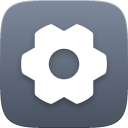
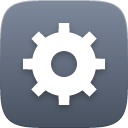
Settings wears a square-toothed gear that stays a gear at 32px, and an unknown app's tile is a dim graphite in the dark theme instead of a pale one.

Changed region(s): [[0.1562, 0.1562, 0.8438, 0.8438], [0.375, 0.375, 0.625, 0.625]]

diff --git a/design/icons/generate.py b/design/icons/generate.py
@@ -6,7 +6,8 @@ vendored in glyphs/) filled, at 62% of the tile. Written:
 
   crates/yantrik-ui-kit/assets/app-icons/<id>.svg            the tile, drawn at 256
   crates/yantrik-ui-kit/assets/app-icons/<size>/<id>.png     rendered by resvg at each size
-  crates/yantrik-ui-kit/assets/app-icons/<size>/_plate.png   the neutral plate (unknown apps)
+  crates/yantrik-ui-kit/assets/app-icons/<size>/_plate-light.png, _plate-dark.png
+                                                             the neutral plate (unknown apps)
   crates/yantrik-ui-kit/assets/app-icons/<size>/_mask.png    the squircle in white (hover)
   crates/yantrik-ui-kit/assets/app-icons/fingerprint.txt     what this run read (fingerprint.py)
   crates/yantrik-ui-kit/slint/app_icons.slint                AppIcons: id and size to image
@@ -38,11 +39,14 @@ from glyph_map import GLYPHS  # noqa: E402
 SIZES = (32, 48, 64, 96, 128, 256)
 OUT = Path("crates/yantrik-ui-kit/assets/app-icons")
 SLINT = Path("crates/yantrik-ui-kit/slint/app_icons.slint")
-# The neutral plate, and the ink of the initial on it: a pale grey with no hue, so an app we know
-# nothing about claims no category, and light where every app of ours is a colour, so it never
-# reads as Settings' slate. A theme's own icon sits on it as a logo sits on a white card.
-PLATE = ("#f4f5f8", "#d3d7de")
-PLATE_INK = "#4a5160"
+# The neutral plates, one per theme: (top, bottom), the 1px rim as (colour, opacity), and the ink
+# of the initial on it. No hue, so an app we know nothing about claims no category. In the light
+# theme it is a pale card a theme's own logo sits on; in the dark theme a pale tile flashed in
+# the dock, so it is a dim graphite there with a lighter rim, quieter than any app of ours.
+PLATES = {
+    "light": (("#f4f5f8", "#d3d7de"), ("#000000", 0.14), "#4a5160"),
+    "dark": (("#4b5561", "#39414b"), ("#5d6874", 1.0), "#ffffff"),
+}
 
 
 def glyph(name: str) -> str:
@@ -66,10 +70,12 @@ def build() -> dict[Path, bytes]:
             group = template.glyph_group(size, body, app.ink, dx, dy)
             files[OUT / str(size) / f"{app.id}.png"] = snap.render(template.tile(size, top, bottom, group, app.ink))
     for size in SIZES:
-        files[OUT / str(size) / "_plate.png"] = snap.render(template.tile(size, *PLATE, edge=True))
+        for theme, (colours, rim, _) in PLATES.items():
+            files[OUT / str(size) / f"_plate-{theme}.png"] = snap.render(template.tile(size, *colours, edge=rim))
         files[OUT / str(size) / "_mask.png"] = snap.render(template.mask(size))
     files[OUT / "fingerprint.txt"] = fingerprint.text(HERE, apps).encode()
-    files[SLINT] = slint_map.source([a.id for a in apps], SIZES, PLATE_INK).encode()
+    inks = {theme: ink for theme, (_, _, ink) in PLATES.items()}
+    files[SLINT] = slint_map.source([a.id for a in apps], SIZES, inks).encode()
     return files
 
 

diff --git a/design/icons/slint_map.py b/design/icons/slint_map.py
@@ -26,20 +26,25 @@ def _url(path: str) -> str:
     return f'@image-url("../assets/app-icons/{path}")'
 
 
-def source(ids: list[str], sizes: tuple[int, ...], plate_ink: str) -> str:
+def source(ids: list[str], sizes: tuple[int, ...], plate_inks: dict[str, str]) -> str:
     has = "\n            || ".join(f'id == "{i}"' for i in ids)
     out = [HEADER, "export global AppIcons {"]
-    out.append("    /// The colour of an unknown app's initial on the neutral plate.")
-    out.append(f"    out property <color> plate-ink: {plate_ink};\n")
+    out.append("    /// The colour of an unknown app's initial on the neutral plate, in either theme.")
+    out.append("    public pure function plate-ink(dark: bool) -> color {")
+    out.append(f"        return dark ? {plate_inks['dark']} : {plate_inks['light']};\n    }}\n")
     out.append("    /// Whether there is art for this app id: every app AppColor gives a colour.")
     out.append(f"    public pure function has(id: string) -> bool {{\n        return {has};\n    }}\n")
     out.append("    /// An app's tile at `px` physical pixels.")
     out.append("    public pure function art(id: string, px: int) -> image {")
     out.append(f"        return {_chain(sizes, 'root.art-{s}(id)')};\n    }}\n")
     out.append("    /// The neutral plate: the same squircle and light with no colour and no glyph, for an")
-    out.append("    /// app we have no art for (its initial goes on it) and behind a theme's own icon.")
-    out.append("    public pure function plate(px: int) -> image {")
-    out.append(f"        return {_chain(sizes, _url('{s}/_plate.png'))};\n    }}\n")
+    out.append("    /// app we have no art for (its initial goes on it) and behind a theme's own icon. Pale")
+    out.append("    /// in the light theme, a dim graphite in the dark one.")
+    out.append("    public pure function plate(px: int, dark: bool) -> image {")
+    out.append("        return dark ? root.plate-dark(px) : root.plate-light(px);\n    }\n")
+    for theme in ("light", "dark"):
+        out.append(f"    pure function plate-{theme}(px: int) -> image {{")
+        out.append(f"        return {_chain(sizes, _url('{s}/_plate-' + theme + '.png'))};\n    }}\n")
     out.append("    /// The squircle in white, laid over a tile at low opacity for hover.")
     out.append("    public pure function mask(px: int) -> image {")
     out.append(f"        return {_chain(sizes, _url('{s}/_mask.png'))};\n    }}")

diff --git a/crates/yantrik-ui-kit/src/app_icons.rs b/crates/yantrik-ui-kit/src/app_icons.rs
@@ -60,7 +60,7 @@ fn every_app_has_art_at_every_size() {
     let apps = table();
     assert!(apps.len() >= 30, "read the colour table, found {} apps", apps.len());
     let mut names: Vec<String> = apps.iter().map(|a| a.0.clone()).collect();
-    names.extend(["_plate".into(), "_mask".into()]);
+    names.extend(["_plate-light".into(), "_plate-dark".into(), "_mask".into()]);
     for name in &names {
         for size in SIZES {
             let path = icons().join(format!("{size}/{name}.png"));
@@ -73,8 +73,9 @@ fn every_app_has_art_at_every_size() {
     }
 }
 
-/// AppIcons offers exactly the generated art: every app at every size, each size's plate and
-/// mask, and the empty image an unknown id falls through to. Nothing it names is missing.
+/// AppIcons offers exactly the generated art: every app at every size, each size's two plates
+/// (light and dark) and mask, and the empty image an unknown id falls through to. Nothing it
+/// names is missing.
 #[test]
 fn the_slint_mapping_offers_exactly_the_art() {
     let src = read(&Path::new(env!("CARGO_MANIFEST_DIR")).join("slint/app_icons.slint"));
@@ -86,7 +87,7 @@ fn the_slint_mapping_offers_exactly_the_art() {
         }
     }
     let urls: Vec<&str> = src.split("@image-url(\"").skip(1).map(|s| &s[..s.find('"').unwrap()]).collect();
-    assert_eq!(urls.len(), SIZES.len() * (apps.len() + 3), "one image per app and size, a plate, a mask and an empty fallback per size");
+    assert_eq!(urls.len(), SIZES.len() * (apps.len() + 4), "one image per app and size, two plates, a mask and an empty fallback per size");
     for url in urls.iter().filter(|u| !u.is_empty()) {
         let path = Path::new(env!("CARGO_MANIFEST_DIR")).join("slint").join(url);
         assert!(path.is_file(), "the mapping names {url}, which is not there");

diff --git a/design/icons/template.py b/design/icons/template.py
@@ -65,10 +65,11 @@ def _shadow(size: int, ink: str) -> str:
             f'stdDeviation="{_num(blur)}" flood-color="#000" flood-opacity="{opacity}"/></filter>')
 
 
-def tile(size: int, top: str, bottom: str, glyph: str = "", ink: str = "#ffffff", edge: bool = False) -> str:
-    """A whole tile at `size` px. `glyph` is a glyph_group(), or "" for a bare plate. `edge`
-    draws a faint 1px rim all round, for a light tile that would otherwise melt into a light
-    surface."""
+def tile(size: int, top: str, bottom: str, glyph: str = "", ink: str = "#ffffff",
+         edge: tuple[str, float] | None = None) -> str:
+    """A whole tile at `size` px. `glyph` is a glyph_group(), or "" for a bare plate. `edge`,
+    a (colour, opacity), draws a 1px rim all round: the neutral plates' outline, which is what
+    keeps them from melting into the surface they sit on."""
     shape = squircle(size)
     rim = 2  # stroked on the outline and clipped to it, so 1px shows inside
     parts = [
@@ -91,7 +92,7 @@ def tile(size: int, top: str, bottom: str, glyph: str = "", ink: str = "#ffffff"
         f'<rect width="{size}" height="{size}" fill="url(#bg)"/>',
         f'<use href="#q" fill="none" stroke="url(#hi)" stroke-width="{rim}"/>',
         f'<use href="#q" fill="none" stroke="url(#lo)" stroke-width="{rim}"/>',
-        f'<use href="#q" fill="none" stroke="#000" stroke-opacity="0.14" stroke-width="{rim}"/>'
+        f'<use href="#q" fill="none" stroke="{edge[0]}" stroke-opacity="{edge[1]}" stroke-width="{rim}"/>'
         if edge else "",
         f'<g filter="url(#s)">{glyph}</g>' if glyph else "",
         "</g>",

diff --git a/design/icons/glyph_map.py b/design/icons/glyph_map.py
@@ -48,7 +48,9 @@ GLYPHS = {
     "personality": "smiley",
     "skills": "lightning",
     "permissions": "shield-check",
-    "settings": "gear-six",
+    # Ours, not Phosphor's (glyphs/README.md): every Phosphor gear has round, shallow teeth that
+    # merge into a flower at 32px.
+    "settings": "settings-gear",
     "about": "info",
     "launchpad": "squares-four",
 }

diff --git a/design/icons/glyphs/README.md b/design/icons/glyphs/README.md
@@ -7,5 +7,11 @@ licensed; the licence is in `LICENSE` beside this file.
 - Source: https://github.com/phosphor-icons/core
 - Package: https://www.npmjs.com/package/@phosphor-icons/core/v/2.1.1
 
+One glyph is not Phosphor's: `settings-gear-fill.svg` was drawn for this set, on the same 256
+grid. Every Phosphor gear, in every weight, has round and shallow teeth, and at the dock's 32px
+they merge and the gear reads as a flower. This one has eight flat-topped teeth (outer radius
+108, root 84, each tooth 32% of its period at the tip and 44% at the root) and a 34-unit hole,
+so each tooth is two or three whole pixels at 32px. It is covered by this repository's licence.
+
 Only the glyphs `../glyph_map.py` names are here. To use another, copy its file from the same
 package version into this folder, name it in `glyph_map.py`, and run `../generate.py`.
